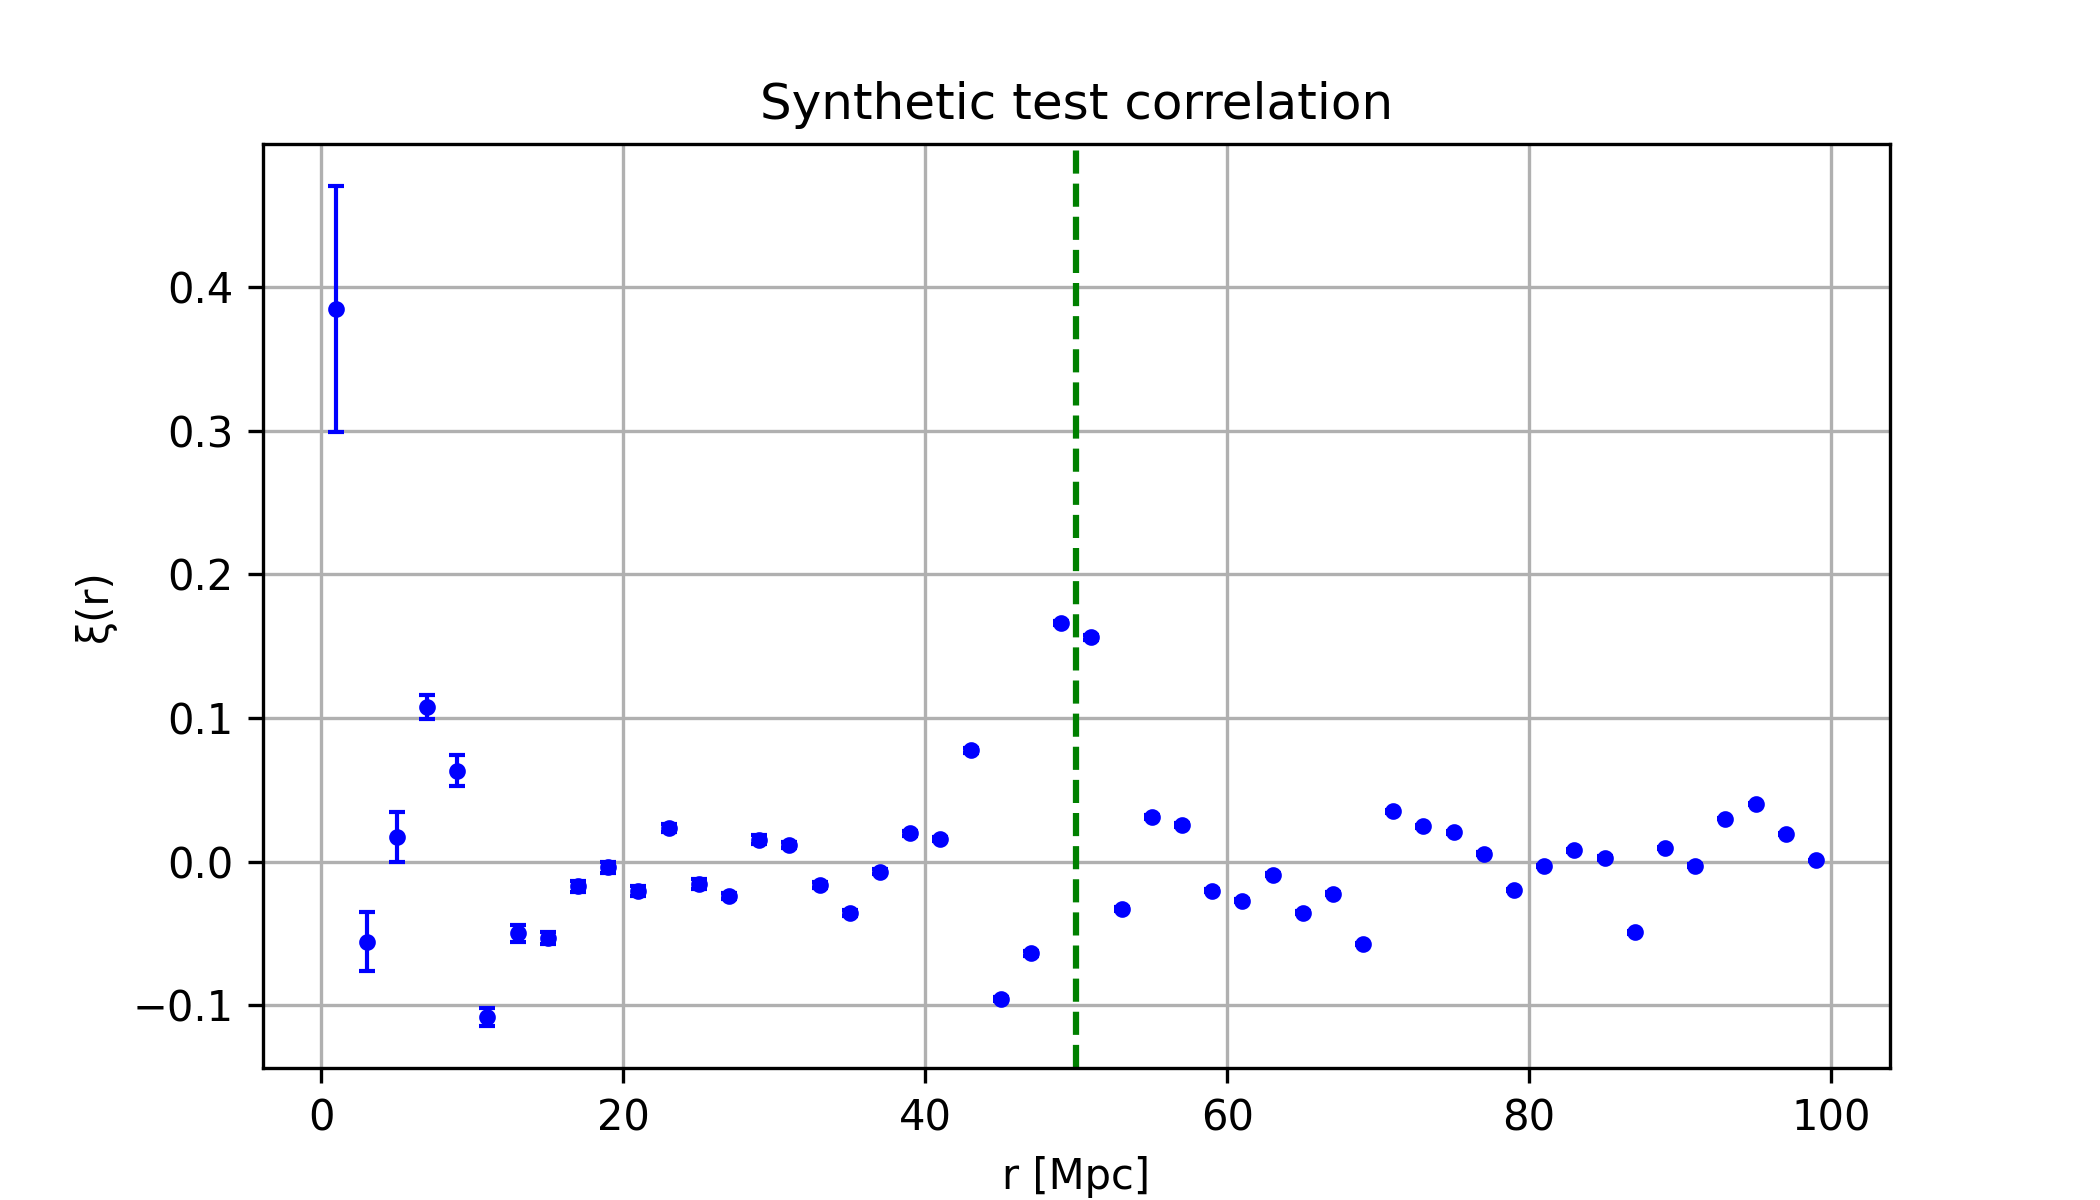
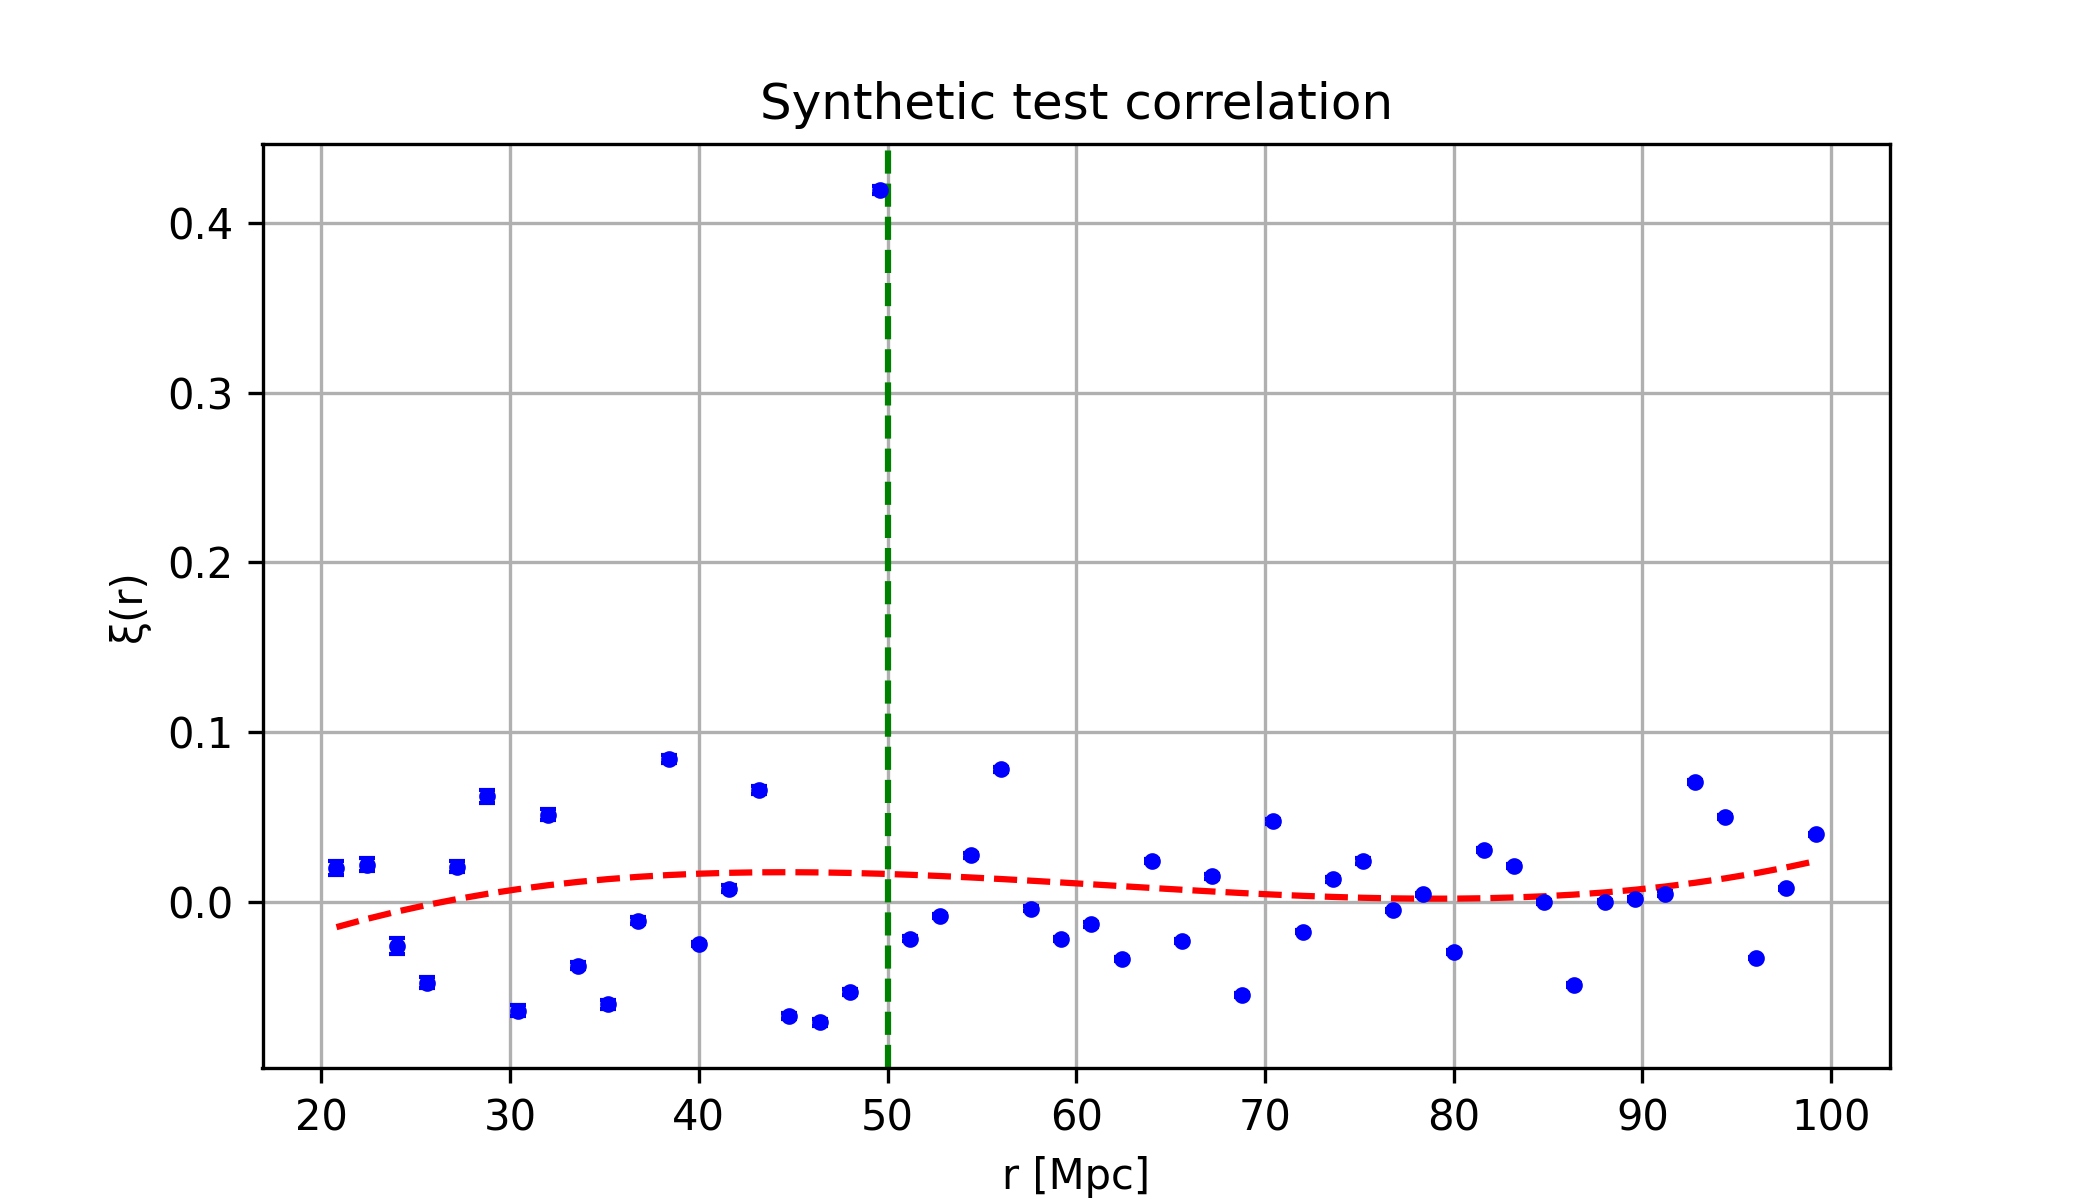
Update

diff --git a/test_treecorr.py b/test_treecorr.py
@@ -1,6 +1,7 @@
 import numpy as np
 import unyt as u
 import matplotlib.pyplot as plt
+from scipy.interpolate import UnivariateSpline
 
 from baoflamingo.cosmology import cosmo_tools
 from baoflamingo.coordinates import coordinate_tools
@@ -60,9 +61,9 @@ coords_total = np.vstack([coords_original, coords_bump])
 # --- Step 3: initialize correlation tool ---
 corr = correlation_tools_treecorr(
     cosmology=cosmo,
-    min_distance=0,     # Mpc
+    min_distance=20,     # Mpc
     max_distance=100,   # Mpc
-    n_random=50*n_gal,
+    n_random=20*n_gal,
     bins=50,
     distance_type='euclidean',
     seed=seed,
@@ -78,7 +79,26 @@ print("Mean xi:", mean_xi)
 print("Std xi:", std_xi)
 print("Bin centers:", corr.bin_centers)
 
+# --- Step 6: Fit Spline and try to find bump ---
+spline = UnivariateSpline(corr.bin_centers, mean_xi, s=1)
+baseline = spline(corr.bin_centers)
+
+# compute residual
+xi_residual = mean_xi - baseline
+
+
+
+peak_idx = np.argmax(xi_residual)
+r_bao = corr.bin_centers[peak_idx]
+xi_bao = xi_residual[peak_idx]
+
+
+print(r_bao)
+
+
+
 plt.figure(figsize=(7,4))
+plt.plot(corr.bin_centers, baseline, color='r', linestyle='--', label='Smooth baseline')
 plt.errorbar(
     corr.bin_centers, mean_xi,
     yerr=std_xi,

diff --git a/plotter.py b/plotter.py
@@ -82,6 +82,21 @@ plt.figure(figsize=(8, 6))
 
 # Main correlation function
 plt.scatter(bin_centers_plot,ls_avg_plot, label="Landy–Szalay")
+spline = UnivariateSpline(bin_centers_plot, ls_avg_plot, s=4)
+baseline = spline(bin_centers_plot)
+
+# compute residual
+xi_residual = ls_avg_plot - baseline
+
+
+
+peak_idx = np.argmax(xi_residual)
+r_bao = bin_centers_plot[peak_idx]
+xi_bao = xi_residual[peak_idx]
+plt.plot(bin_centers_plot, baseline, color='r', linestyle='--', label='Smooth baseline')
+
+print(f"BAO peak at r ~ {r_bao:.2f} Mpc with ξ ~ {xi_bao:.4f}")
+print('The expected BAO peak is at',bao_angle)
 
 # Optional error bars (uncomment if you have std)
 #plt.errorbar(bin_centers_plot, ls_avg_plot, yerr=ls_std_plot,

diff --git a/baoflamingo/pipeline_single.py b/baoflamingo/pipeline_single.py
@@ -136,10 +136,10 @@ def run_pipeline_single(cfg):
     
     # --- Apply radial & luminosity mask ---
     #radial_luminosity_mask = filters.radial_luminosity(d_coords_sph)
-    radial_central_mask=filters.radial_central(d_coords_sph)
+    radial_luminosity_mask=filters.radial_luminosity(d_coords_sph)
     gc.collect()
     #overwrite to save memory, change this
-    d_coords_sph = d_coords_sph[radial_central_mask][:, 1:]
+    d_coords_sph = d_coords_sph[radial_luminosity_mask][:, 1:]
     
     data_size = np.shape(d_coords_sph)[0]
     if data_size < 2:

diff --git a/baoflamingo/filtering.py b/baoflamingo/filtering.py
@@ -70,6 +70,8 @@ class filtering_tools:
         # Filter out galaxies with any zero luminosity (or just in the u-band)
         nonzero_mask = lum[:, bands.index('u')] != 0
         lum = lum[nonzero_mask, :]
+        pass_fraction = np.count_nonzero(nonzero_mask) / nonzero_mask.size * 100
+        print(f"Pass percentage after stellar mass filter: {pass_fraction:.2f}%")
 
         #loading in luminosities in all bands
         #we have to convert to absolute magnitudes in each band
